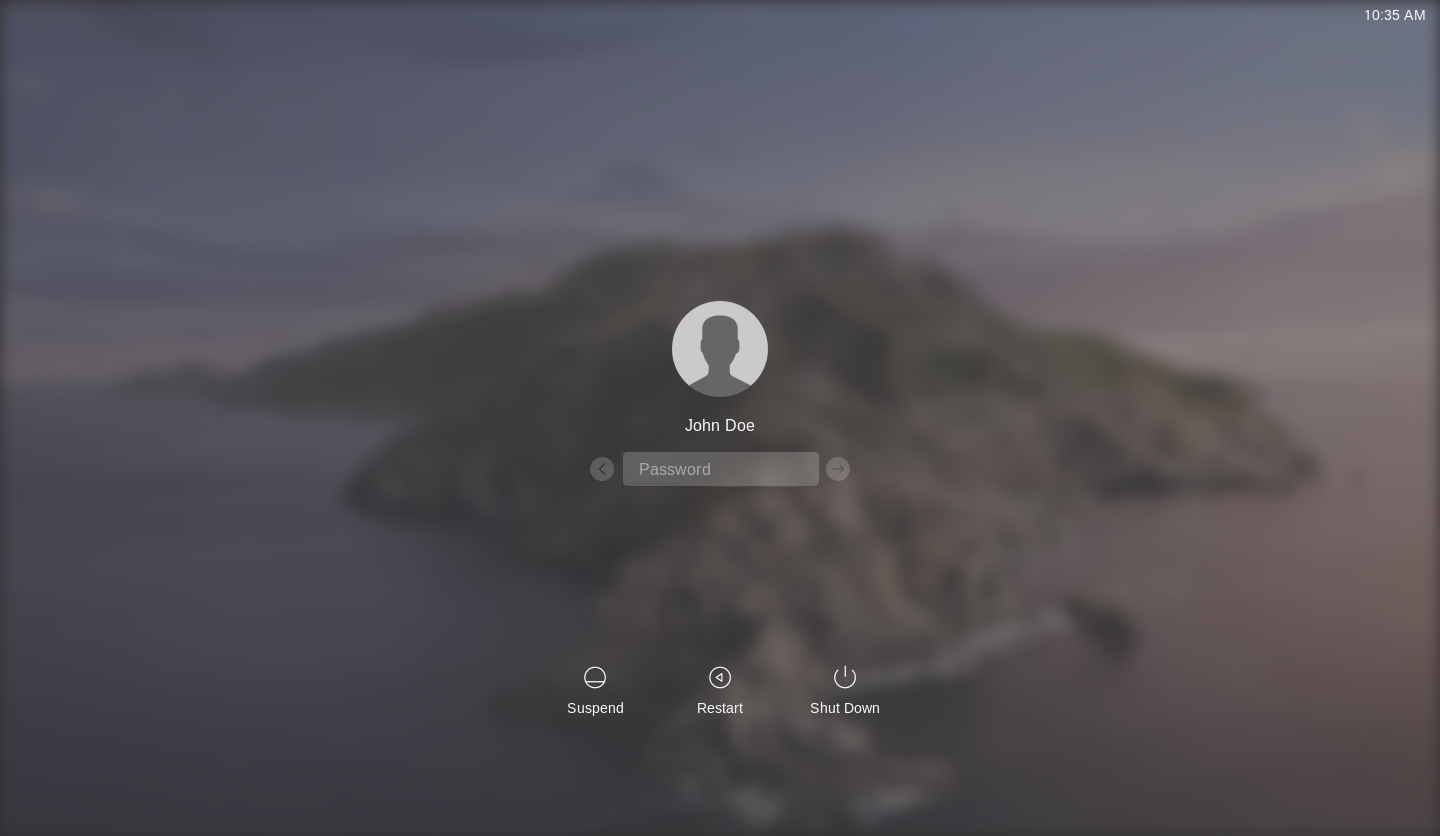
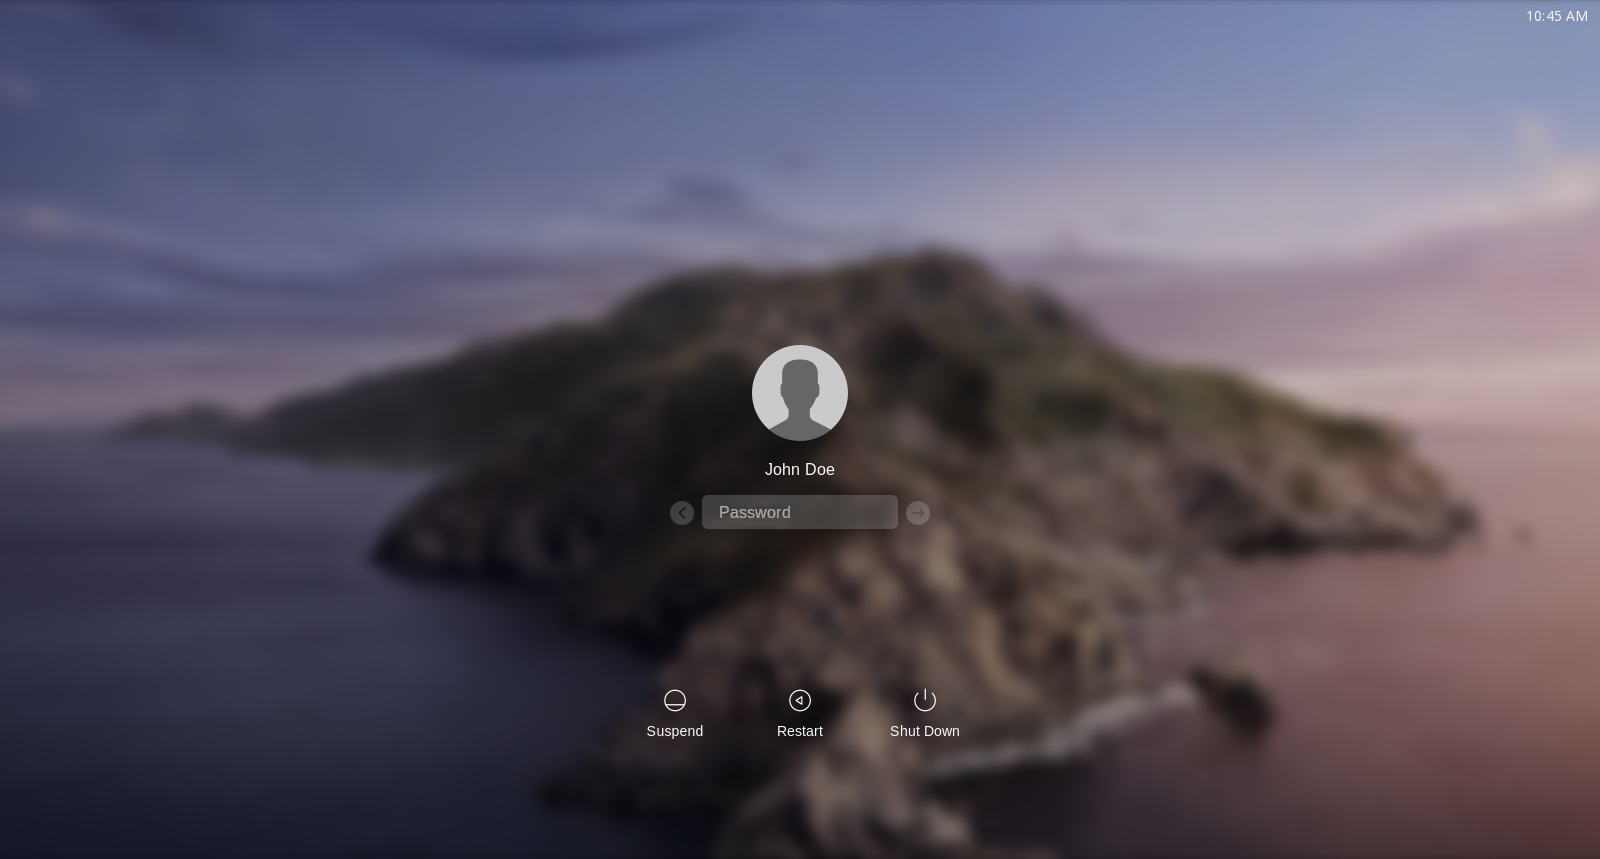
Hide blur edges

diff --git a/resources/css/style.css b/resources/css/style.css
@@ -45,14 +45,18 @@ body {
 }
 
 #background {
-  z-index: -1;
   position: absolute;
+  top: 0;
+  left: 0;
   width: 100%;
   height: 100%;
+  z-index: -1;
+  background: linear-gradient(rgba(0, 0, 0, 0.2),
+    rgba(0, 0, 0, 0.2)),
+    url("/usr/share/backgrounds/current");
   -webkit-background-size: cover;
   -webkit-filter: blur(8px);
-}
-
+  transform: scale(1.02);
 }
 
 input {
